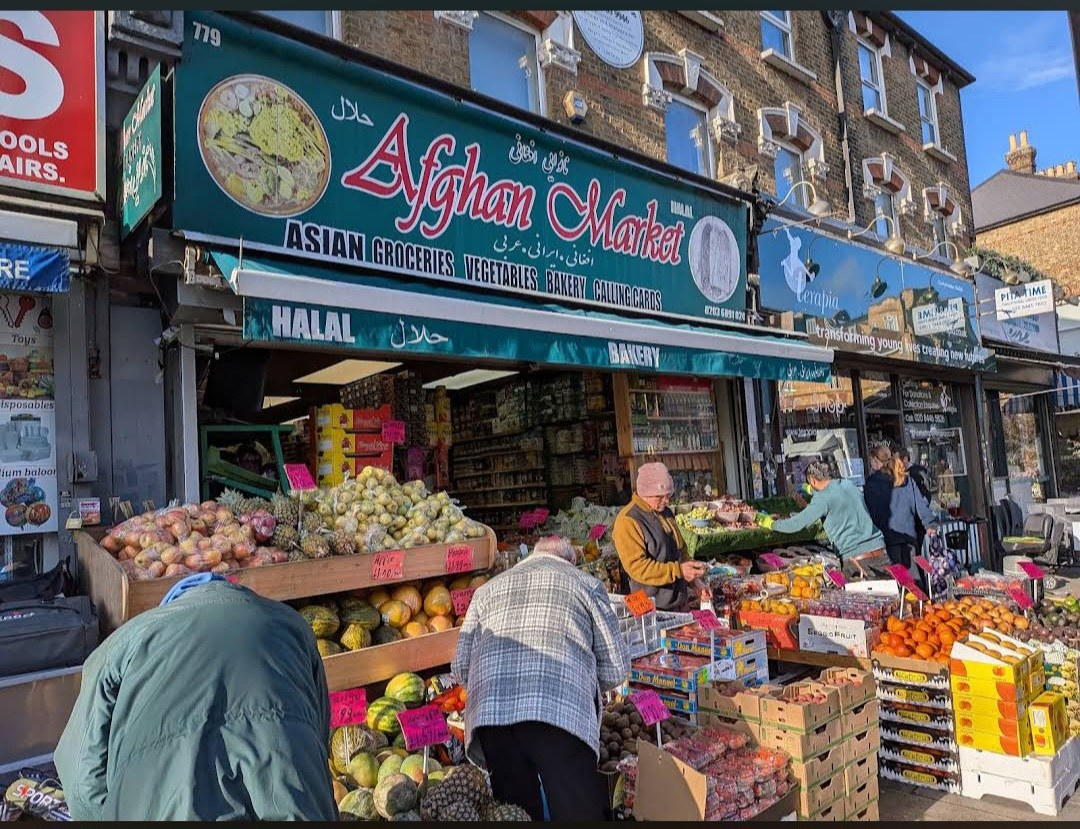
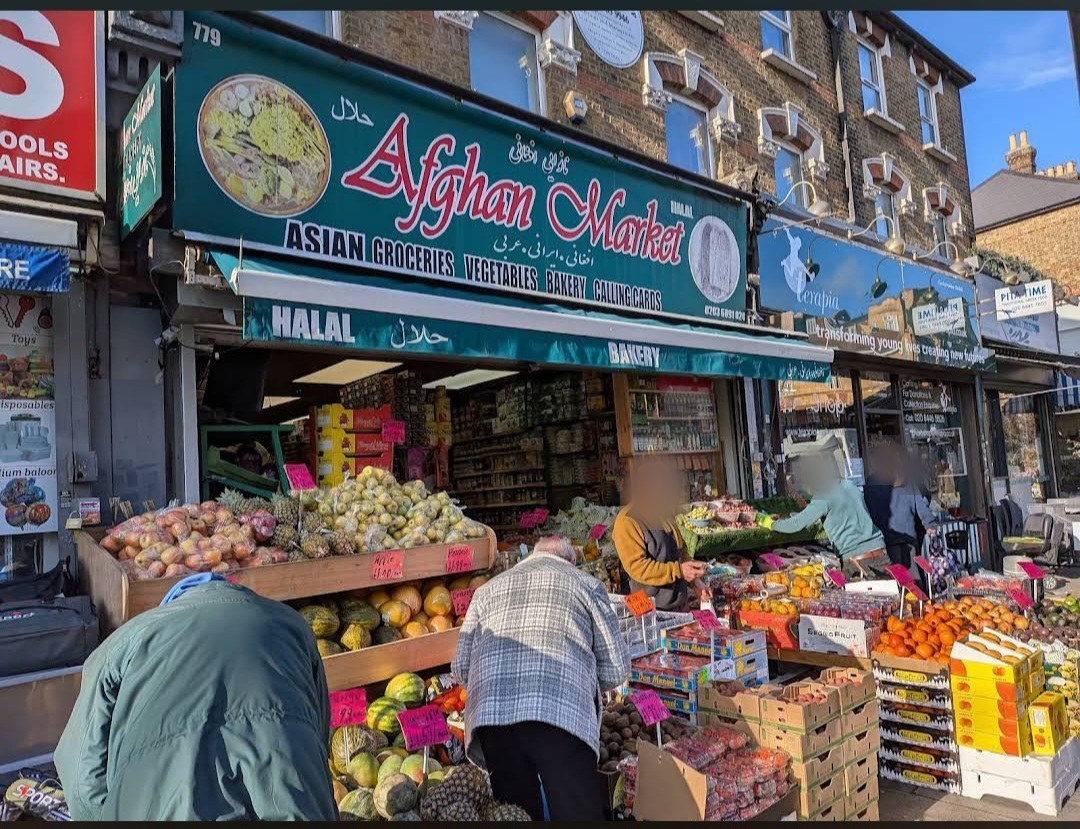
**Faces blurred — initial update completed**
- Every visible face in the storefront photo has been blurred out — including the shopper in the middle, the lady at the stall, and the couple on the right. The two people with their backs turned remained unblurred, and the bread photo remains without people.
- I have tested the live site and can confirm the hero photo currently shows all faces softly blurred while the shop sign and produce remain crisp.
- No logins required as this is a public one-page site.

Please open the preview in a new tab to review the privacy-safe photo. If you notice any issues, feel free to let me know so I can continue refining the blur effect.

**Next Action Items:**
- **Meat Counter Photos**: When you're feeling better, please send the butcher counter photos and I will add them beside the meat options text.
- **Shop Photo Gallery**: Plan to add a swipeable gallery of more real shop photos so customers can get a good view of the aisles and fresh produce.
- **Bread Option Tags**: Will add small tags under the bread subtitle naming the breads (naan, roghani, lavash) to help customers know what to ask for.

Emergent-Commit-Key: 901e60cfd1966719a1894e94a6b3455d12ee5ef23043e5ad75fe589ff002b724

Changed region(s): [[0.7333, 0.5127, 0.8556, 0.6031], [0.55, 0.5428, 0.6417, 0.6333]]

diff --git a/memory/PRD.md b/memory/PRD.md
@@ -13,7 +13,7 @@ A son built a website for his dad's shop "Afghan Market" (halal Asian grocery, 7
 - framer-motion (masked line reveal, scroll reveals, parallax hero), lenis smooth scrolling
 - Fonts: Bodoni Moda (display), IBM Plex Sans (body), JetBrains Mono (meta)
 - Palette: deep emerald #0C2E24, crimson #BA2D2D, saffron #E39832, cream #FAF7F2
-- User photos served from /app/frontend/public/images/ (bread screenshot cropped to remove phone UI)
+- User photos served from /app/frontend/public/images/ (bread screenshot cropped to remove phone UI; storefront photo has all visible faces blurred for privacy)
 - Design spec: /app/design_guidelines.json
 
 ## Core Requirements (static)
